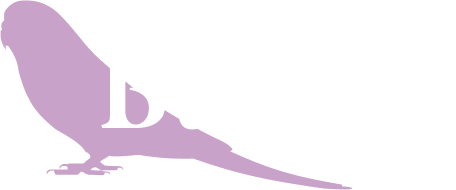
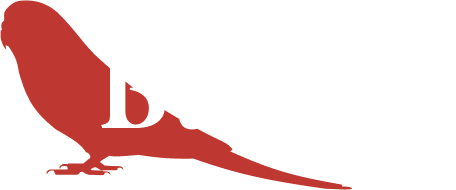
Colour and Animation Change

Changed region(s): [[0.0, 0.0, 0.7675, 1.0]]

diff --git a/components/shared/AddToCartButton.tsx b/components/shared/AddToCartButton.tsx
@@ -1,10 +1,10 @@
 /**
  * AddToCartButton Component
  * Provides add to cart functionality with quantity controls
- * Changes appearance and behavior based on cart state
+ * Features smooth animations for state transitions
  */
 
-import React, { useEffect, useState } from 'react';
+import React, { useEffect } from 'react';
 import {
   View,
   Text,
@@ -18,6 +18,14 @@ import { useAppDispatch, useAppSelector } from '@/app/store/hooks';
 import { addToCart, updateQuantity } from '@/app/store/slices/cartSlice';
 import { colors, spacing, typography } from '@/styles/theme';
 import { useRouter } from 'expo-router';
+import Animated, { 
+  useAnimatedStyle, 
+  withSpring, 
+  withTiming,
+  interpolateColor,
+  FadeIn,
+  FadeOut
+} from 'react-native-reanimated';
 
 /**
  * Props for AddToCartButton component
@@ -38,6 +46,8 @@ interface AddToCartButtonProps {
     savings: number;
   };
 }
+
+const AnimatedTouchable = Animated.createAnimatedComponent(TouchableOpacity);
 
 /**
  * Button component for adding products to cart
@@ -60,12 +70,37 @@ export const AddToCartButton: React.FC<AddToCartButtonProps> = ({
     state.cart.items.find((item) => item.id === productId)
   );
   const quantity = cartItem?.quantity || 0;
-  const [isAdded, setIsAdded] = useState(quantity > 0);
+  const isAdded = quantity > 0;
 
-  // Update local state when cart quantity changes
-  useEffect(() => {
-    setIsAdded(quantity > 0);
-  }, [quantity]);
+  // Animated styles for the main button
+  const buttonStyle = useAnimatedStyle(() => {
+    return {
+      backgroundColor: withSpring(
+        isAdded ? colors.success : colors.background[isDark ? 'dark' : 'light']
+      ),
+      borderColor: withSpring(
+        isAdded ? colors.success : colors.primary
+      ),
+      transform: [
+        {
+          scale: withSpring(isAdded ? 1 : 1, {
+            damping: 15,
+            stiffness: 150,
+          }),
+        },
+      ],
+    };
+  }, [isAdded, isDark]);
+
+  // Animated styles for the button text
+  const textStyle = useAnimatedStyle(() => {
+    return {
+      color: withTiming(
+        isAdded ? '#fff' : colors.primary,
+        { duration: 200 }
+      ),
+    };
+  }, [isAdded]);
 
   /**
    * Handle add to cart button press
@@ -118,33 +153,30 @@ export const AddToCartButton: React.FC<AddToCartButtonProps> = ({
   return (
     <View style={styles.container}>
       {/* Main add to cart button */}
-      <TouchableOpacity
-        style={[
-          styles.button,
-          {
-            borderColor: isAdded ? colors.success : colors.primary,
-            backgroundColor: isAdded ? colors.success : colors.background[isDark ? 'dark' : 'light'],
-          },
-        ]}
+      <AnimatedTouchable
+        style={[styles.button, buttonStyle]}
         onPress={handleAddToCart}>
         <View style={styles.buttonContent}>
-          {isAdded ? (
-            <FontAwesome name="shopping-cart" size={22} color={"#fff"} style={styles.icon} />
-          ) : (
-            <FontAwesome name="cart-plus" size={22} color={colors.primary} style={styles.icon} />
-          )}
-          <Text style={[
-            styles.buttonText,
-            { color: isAdded ? "#fff" : colors.primary },
-          ]}>
+          <Animated.View>
+            <FontAwesome 
+              name={isAdded ? "shopping-cart" : "cart-plus"} 
+              size={22} 
+              color={isAdded ? "#fff" : colors.primary} 
+              style={styles.icon} 
+            />
+          </Animated.View>
+          <Animated.Text style={[styles.buttonText, textStyle]}>
             {isAdded ? 'View in Cart' : 'Add to Cart'}
-          </Text>
+          </Animated.Text>
         </View>
-      </TouchableOpacity>
+      </AnimatedTouchable>
 
-      {/* Quantity controls - only shown when item is in cart */}
+      {/* Quantity controls with enter/exit animations */}
       {isAdded && (
-        <View style={styles.quantityContainer}>
+        <Animated.View 
+          entering={FadeIn.duration(200)}
+          exiting={FadeOut.duration(200)}
+          style={styles.quantityContainer}>
           <TouchableOpacity
             onPress={handleDecrement}
             style={[styles.quantityButton, styles.decrementButton]}>
@@ -154,19 +186,19 @@ export const AddToCartButton: React.FC<AddToCartButtonProps> = ({
               color={colors.danger}
             />
           </TouchableOpacity>
-          <Text
+          <Animated.Text
             style={[
               styles.quantity,
               { color: colors.text[isDark ? 'dark' : 'light'] },
             ]}>
             {quantity}
-          </Text>
+          </Animated.Text>
           <TouchableOpacity
             onPress={handleIncrement}
             style={[styles.quantityButton, styles.incrementButton]}>
             <FontAwesome name="plus" size={16} color={colors.success} />
           </TouchableOpacity>
-        </View>
+        </Animated.View>
       )}
     </View>
   );
@@ -228,7 +260,7 @@ const styles = StyleSheet.create({
     alignItems: 'center',
   },
   decrementButton: {
-    backgroundColor: colors.discount + '20',  // 20% opacity
+    backgroundColor: colors.danger + '20',  // 20% opacity
   },
   incrementButton: {
     backgroundColor: colors.success + '20',  // 20% opacity

diff --git a/components/product/ProductGrid.tsx b/components/product/ProductGrid.tsx
@@ -2,6 +2,7 @@
  * ProductGrid Component
  * Displays a responsive grid of product cards with filtering, sorting, and search capabilities
  * Features pull-to-refresh, loading states, and error handling
+ * Includes smooth fade-in animations with staggered card effects
  */
 
 import React from 'react';
@@ -19,6 +20,7 @@ import { ProductCard } from './ProductCard';
 import { useAppSelector, useAppDispatch } from '@/app/store/hooks';
 import { fetchProducts } from '@/app/store/slices/productsSlice';
 import { colors, spacing, typography } from '@/styles/theme';
+import { default as Anim, FadeInDown } from 'react-native-reanimated';
 
 /**
  * Product interface defining the shape of product data
@@ -58,15 +60,43 @@ export const ProductGrid: React.FC<ProductGridProps> = ({ onProductPress, bottom
   const dispatch = useAppDispatch();
   const colorScheme = useColorScheme();
   const isDark = colorScheme === 'dark';
+  const hasAnimatedRef = React.useRef(new Set<number>());
   
   // Get products state from Redux store
   const { items, status, error, filters } = useAppSelector((state) => state.products);
+
+  // Reset animation tracking when items array changes completely
+  React.useEffect(() => {
+    if (items.length === 0) {
+      hasAnimatedRef.current.clear();
+    }
+  }, [items.length === 0]);
+
+  /**
+   * Memoized render function for product items
+   * Only animates items that haven't been shown before
+   */
+  const renderItem = React.useCallback<ListRenderItem<Product>>(({ item, index }) => {
+    const shouldAnimate = !hasAnimatedRef.current.has(item.id);
+    if (shouldAnimate) {
+      hasAnimatedRef.current.add(item.id);
+    }
+
+    return (
+      <Anim.View 
+        entering={shouldAnimate ? FadeInDown.delay(index * 100).springify() : undefined}
+        style={styles.productContainer}>
+        <ProductCard {...item} onPress={() => onProductPress(item.id)} />
+      </Anim.View>
+    );
+  }, [onProductPress]);
 
   /**
    * Handle pull-to-refresh action
    * Dispatches action to fetch fresh products data
    */
   const handleRefresh = () => {
+    hasAnimatedRef.current.clear(); // Reset animations on refresh
     dispatch(fetchProducts());
   };
 
@@ -136,16 +166,6 @@ export const ProductGrid: React.FC<ProductGridProps> = ({ onProductPress, bottom
     );
   }
 
-  /**
-   * Render individual product card
-   * Wraps ProductCard with necessary container and press handler
-   */
-  const renderItem: ListRenderItem<Product> = ({ item }) => (
-    <View style={styles.productContainer}>
-      <ProductCard {...item} onPress={() => onProductPress(item.id)} />
-    </View>
-  );
-
   return (
     <View style={styles.container}>
       <FlatList
@@ -165,7 +185,9 @@ export const ProductGrid: React.FC<ProductGridProps> = ({ onProductPress, bottom
           />
         }
         ListEmptyComponent={
-          <View style={styles.centered}>
+          <Anim.View 
+            entering={FadeInDown.springify()}
+            style={styles.centered}>
             <Text
               style={[
                 styles.emptyText,
@@ -175,7 +197,7 @@ export const ProductGrid: React.FC<ProductGridProps> = ({ onProductPress, bottom
                 ? 'No products match your search'
                 : 'No products found'}
             </Text>
-          </View>
+          </Anim.View>
         }
       />
     </View>

diff --git a/app/(tabs)/index.tsx b/app/(tabs)/index.tsx
@@ -1,6 +1,7 @@
 /**
  * Main shop screen component
  * Displays the product grid with filter/sort controls
+ * Features smooth fade-in animations and responsive layout
  */
 
 import { View, StyleSheet, useColorScheme } from 'react-native';
@@ -9,11 +10,25 @@ import { ProductGrid } from '@/components/product/ProductGrid';
 import { BottomControls } from '@/components/shared/BottomControls';
 import { colors } from '@/styles/theme';
 import React from 'react';
+import { default as Anim, FadeInDown } from 'react-native-reanimated';
+
+// Custom hook to track first render
+const useIsFirstRender = () => {
+  const isFirst = React.useRef(true);
+
+  if (isFirst.current) {
+    isFirst.current = false;
+    return true;
+  }
+
+  return false;
+};
 
 export default function TabOneScreen() {
   const router = useRouter();
   const colorScheme = useColorScheme();
   const isDark = colorScheme === 'dark';
+  const isFirstRender = useIsFirstRender();
   // Track bottom controls height to adjust product grid padding
   const [controlsHeight, setControlsHeight] = React.useState(0);
 
@@ -33,16 +48,26 @@ export default function TabOneScreen() {
         styles.container,
         { backgroundColor: colors.background[isDark ? 'dark' : 'light'] },
       ]}>
-      {/* Product grid with dynamic bottom padding based on controls height */}
-      <ProductGrid onProductPress={handleProductPress} bottomOffset={controlsHeight} />
+      {/* Animated product grid with dynamic bottom padding based on controls height */}
+      <Anim.View 
+        entering={isFirstRender ? FadeInDown.springify() : undefined}
+        style={styles.gridContainer}>
+        <ProductGrid onProductPress={handleProductPress} bottomOffset={controlsHeight} />
+      </Anim.View>
       {/* Filter and sort controls that slide up from bottom */}
-      <BottomControls onHeightChange={setControlsHeight} />
+      <Anim.View
+        entering={isFirstRender ? FadeInDown.delay(300).springify() : undefined}>
+        <BottomControls onHeightChange={setControlsHeight} />
+      </Anim.View>
     </View>
   );
 }
 
 const styles = StyleSheet.create({
   container: {
+    flex: 1,
+  },
+  gridContainer: {
     flex: 1,
   },
 });

diff --git a/styles/theme.ts b/styles/theme.ts
@@ -1,15 +1,13 @@
 import { StyleSheet } from 'react-native';
 
 export const colors = {
-  primary: '#C8A2C8',
-  primary2: '#BB8CBB',
-  primary3: '#9F669F',
-  primary4: '#834583',
-  primary5: '#6A216A',
-  success: '#005D7C',
-  danger: '#FF3B30',
-  warning: '#FFCC00',
-  discount: '#FF3B30',
+  primary: '#BE3730',
+  primary2: '#A32019',
+  primary3: '#8D1009',
+  primary4: '#730600',
+  primary5: '#5B0400',
+  success: '#3EB6AE',
+  danger: '#D6D454',
   background: {
     light: '#EEEEEE',
     dark: '#202020',
@@ -26,12 +24,6 @@ export const colors = {
     light: '#E5E5EA',
     dark: '#38383A',
   },
-  two: {
-    primary: '#D8A349',
-    border: '#000',
-    background: '#FBF3E4',
-    
-  }
 
 };
 

diff --git a/components/cart/CartItem.tsx b/components/cart/CartItem.tsx
@@ -227,7 +227,7 @@ const styles = StyleSheet.create({
     alignItems: 'center',
   },
   decrementButton: {
-    backgroundColor: colors.discount + '20', // 20% opacity
+    backgroundColor: colors.danger + '20', // 20% opacity
   },
   incrementButton: {
     backgroundColor: colors.success + '20', // 20% opacity
